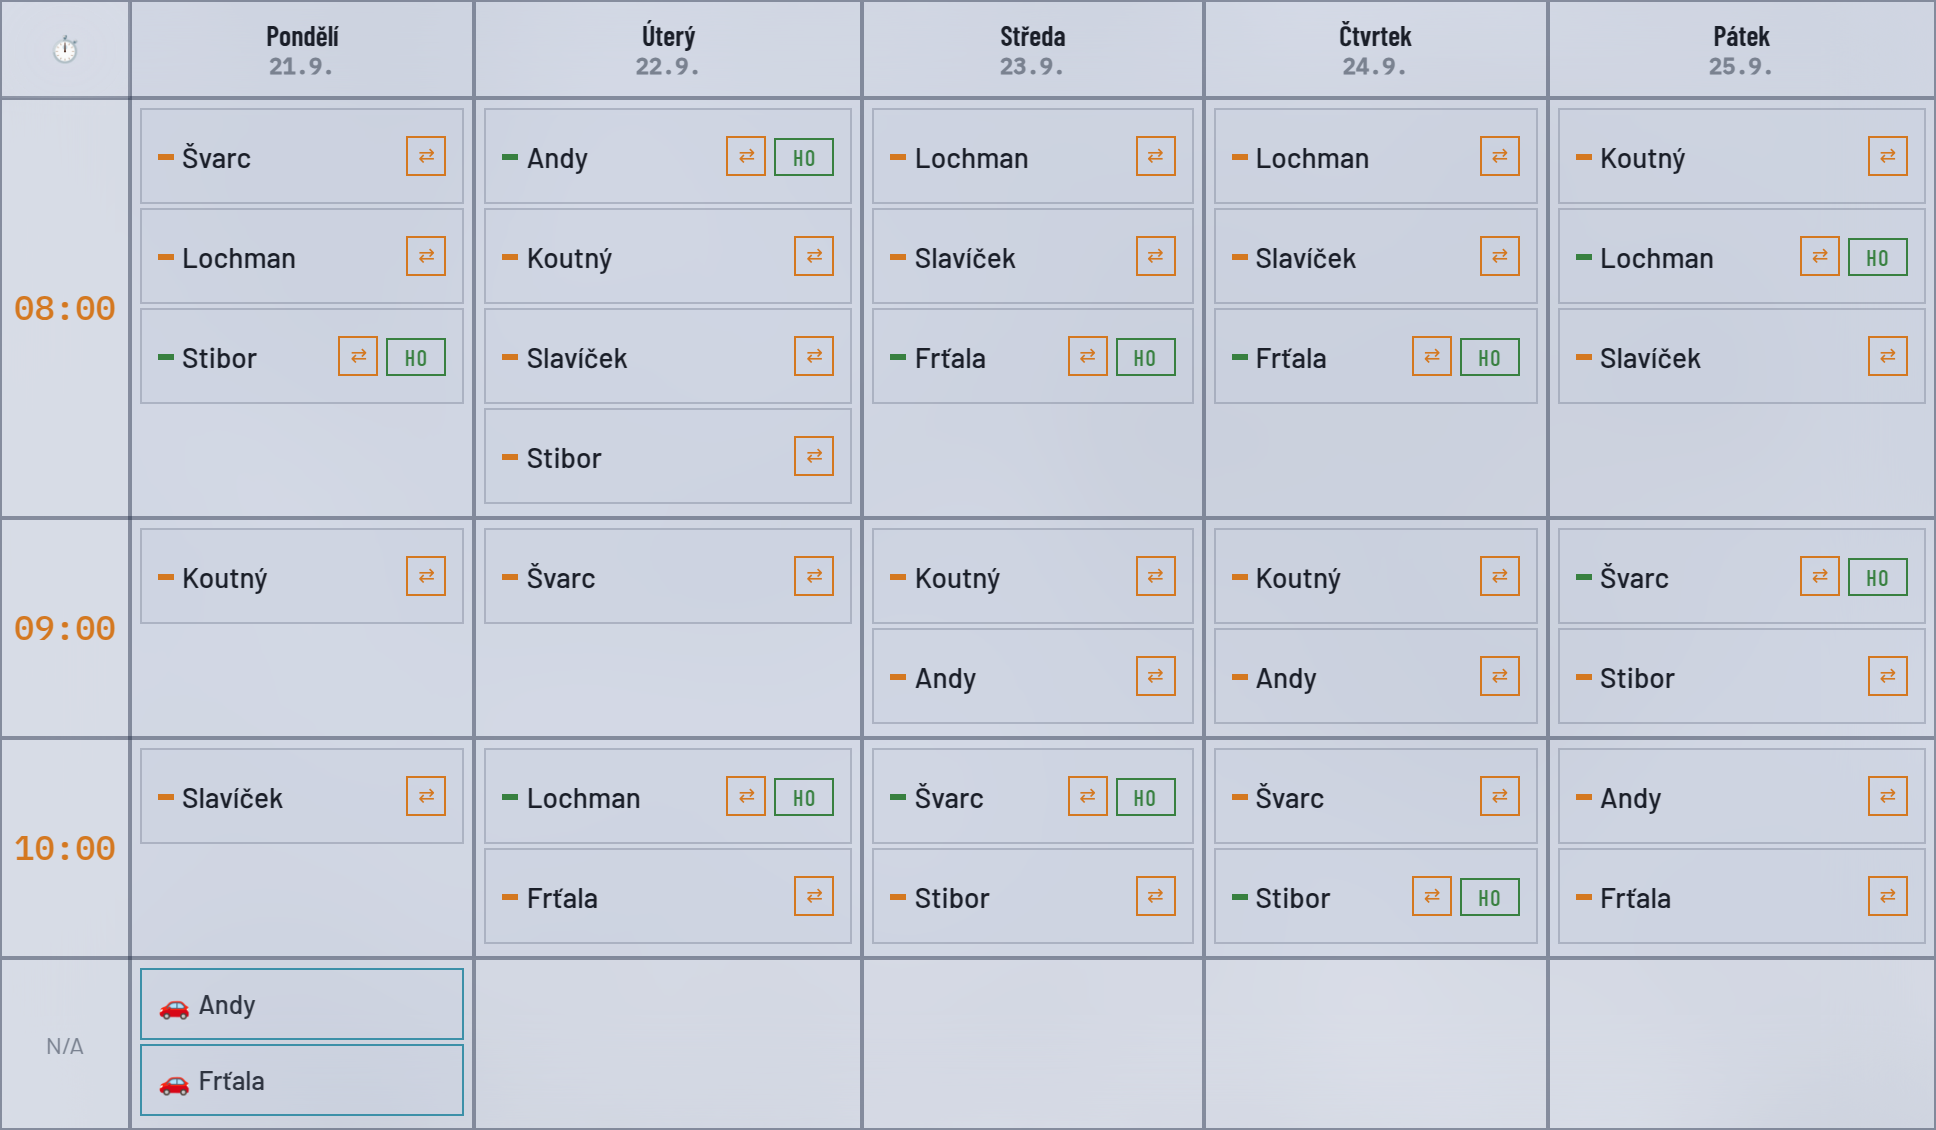
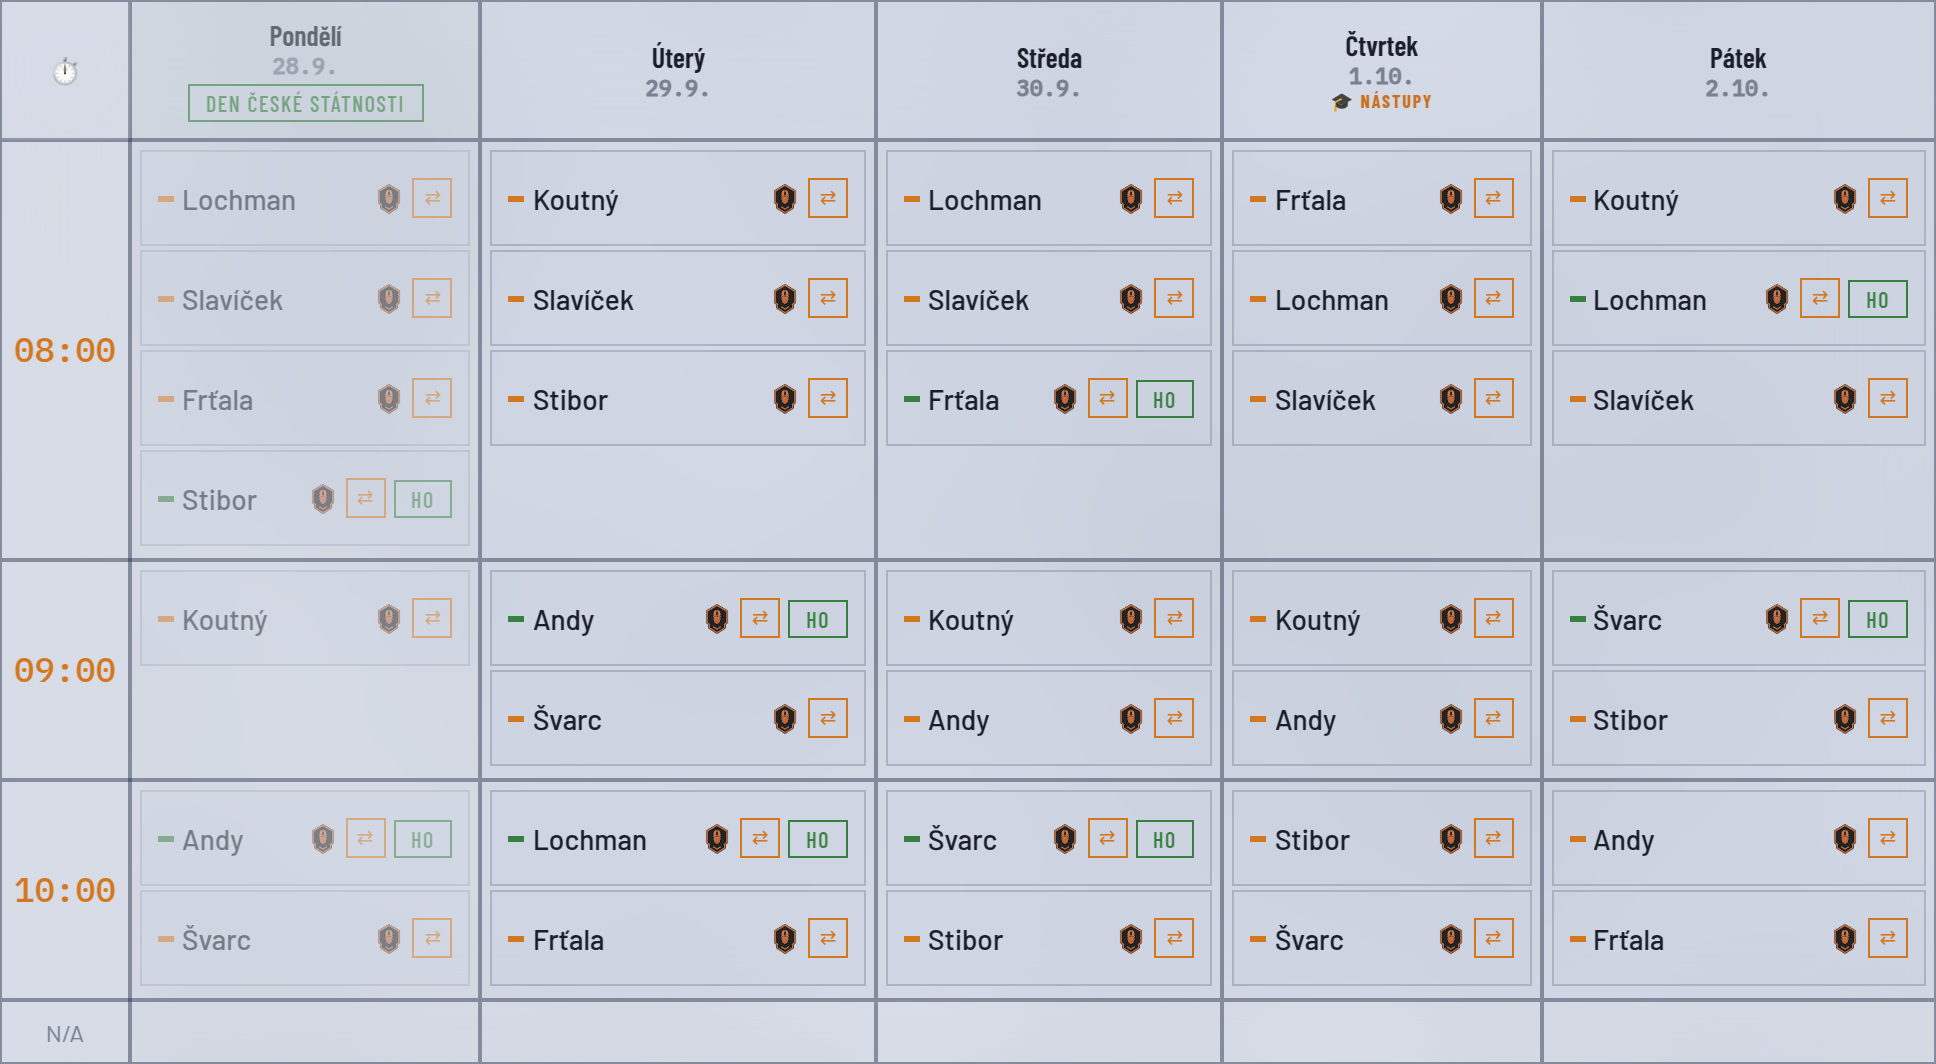
nahled: rozvrh na tyden od 28.09.2026

diff --git a/public/nahled/index.html b/public/nahled/index.html
@@ -1,18 +1,18 @@
 <!DOCTYPE html>
 <html lang="cs"><head><meta charset="utf-8">
 <meta name="viewport" content="width=device-width,initial-scale=1">
-<title>ShiftFlow — rozvrh na týden od 21.09.2026</title>
+<title>ShiftFlow — rozvrh na týden od 28.09.2026</title>
 <meta property="og:type" content="website">
 <meta property="og:site_name" content="ShiftFlow">
-<meta property="og:title" content="Rozvrh na týden od 21.09.2026">
+<meta property="og:title" content="Rozvrh na týden od 28.09.2026">
 <meta property="og:description" content="Aktuální rozpis směn pro příští týden. Klepnutím otevřeš plnou velikost.">
-<meta property="og:image" content="https://smenyjt.netlify.app/nahled/rozvrh.png?v=1789838228701">
+<meta property="og:image" content="https://smenyjt.netlify.app/nahled/rozvrh.png?v=1790334969228">
 <meta property="og:image:type" content="image/png">
 <meta property="og:image:width" content="1936">
-<meta property="og:image:height" content="1130">
+<meta property="og:image:height" content="1064">
 <meta property="og:url" content="https://smenyjt.netlify.app/nahled/">
 <meta name="twitter:card" content="summary_large_image">
-<meta name="twitter:image" content="https://smenyjt.netlify.app/nahled/rozvrh.png?v=1789838228701">
+<meta name="twitter:image" content="https://smenyjt.netlify.app/nahled/rozvrh.png?v=1790334969228">
 <style>
  body{margin:0;background:#0c0c12;color:#e8e8f0;font-family:system-ui,-apple-system,'Segoe UI',sans-serif;
       display:flex;flex-direction:column;align-items:center;gap:14px;padding:16px}
@@ -22,8 +22,8 @@
  a{color:#6aa8d8;font-size:13px;text-decoration:none;margin-top:6px}
 </style></head>
 <body>
- <h1>Rozvrh na týden od 21.09.2026</h1>
- <img src="rozvrh.png?v=1789838228701" alt="Rozvrh směn na týden od 21.09.2026">
- <p>Aktualizováno 19. 9. 2026 19:16:58</p>
+ <h1>Rozvrh na týden od 28.09.2026</h1>
+ <img src="rozvrh.png?v=1790334969228" alt="Rozvrh směn na týden od 28.09.2026">
+ <p>Aktualizováno 25. 9. 2026 13:15:57</p>
  <a href="https://smenyjt.netlify.app">Otevřít ShiftFlow →</a>
 </body></html>
